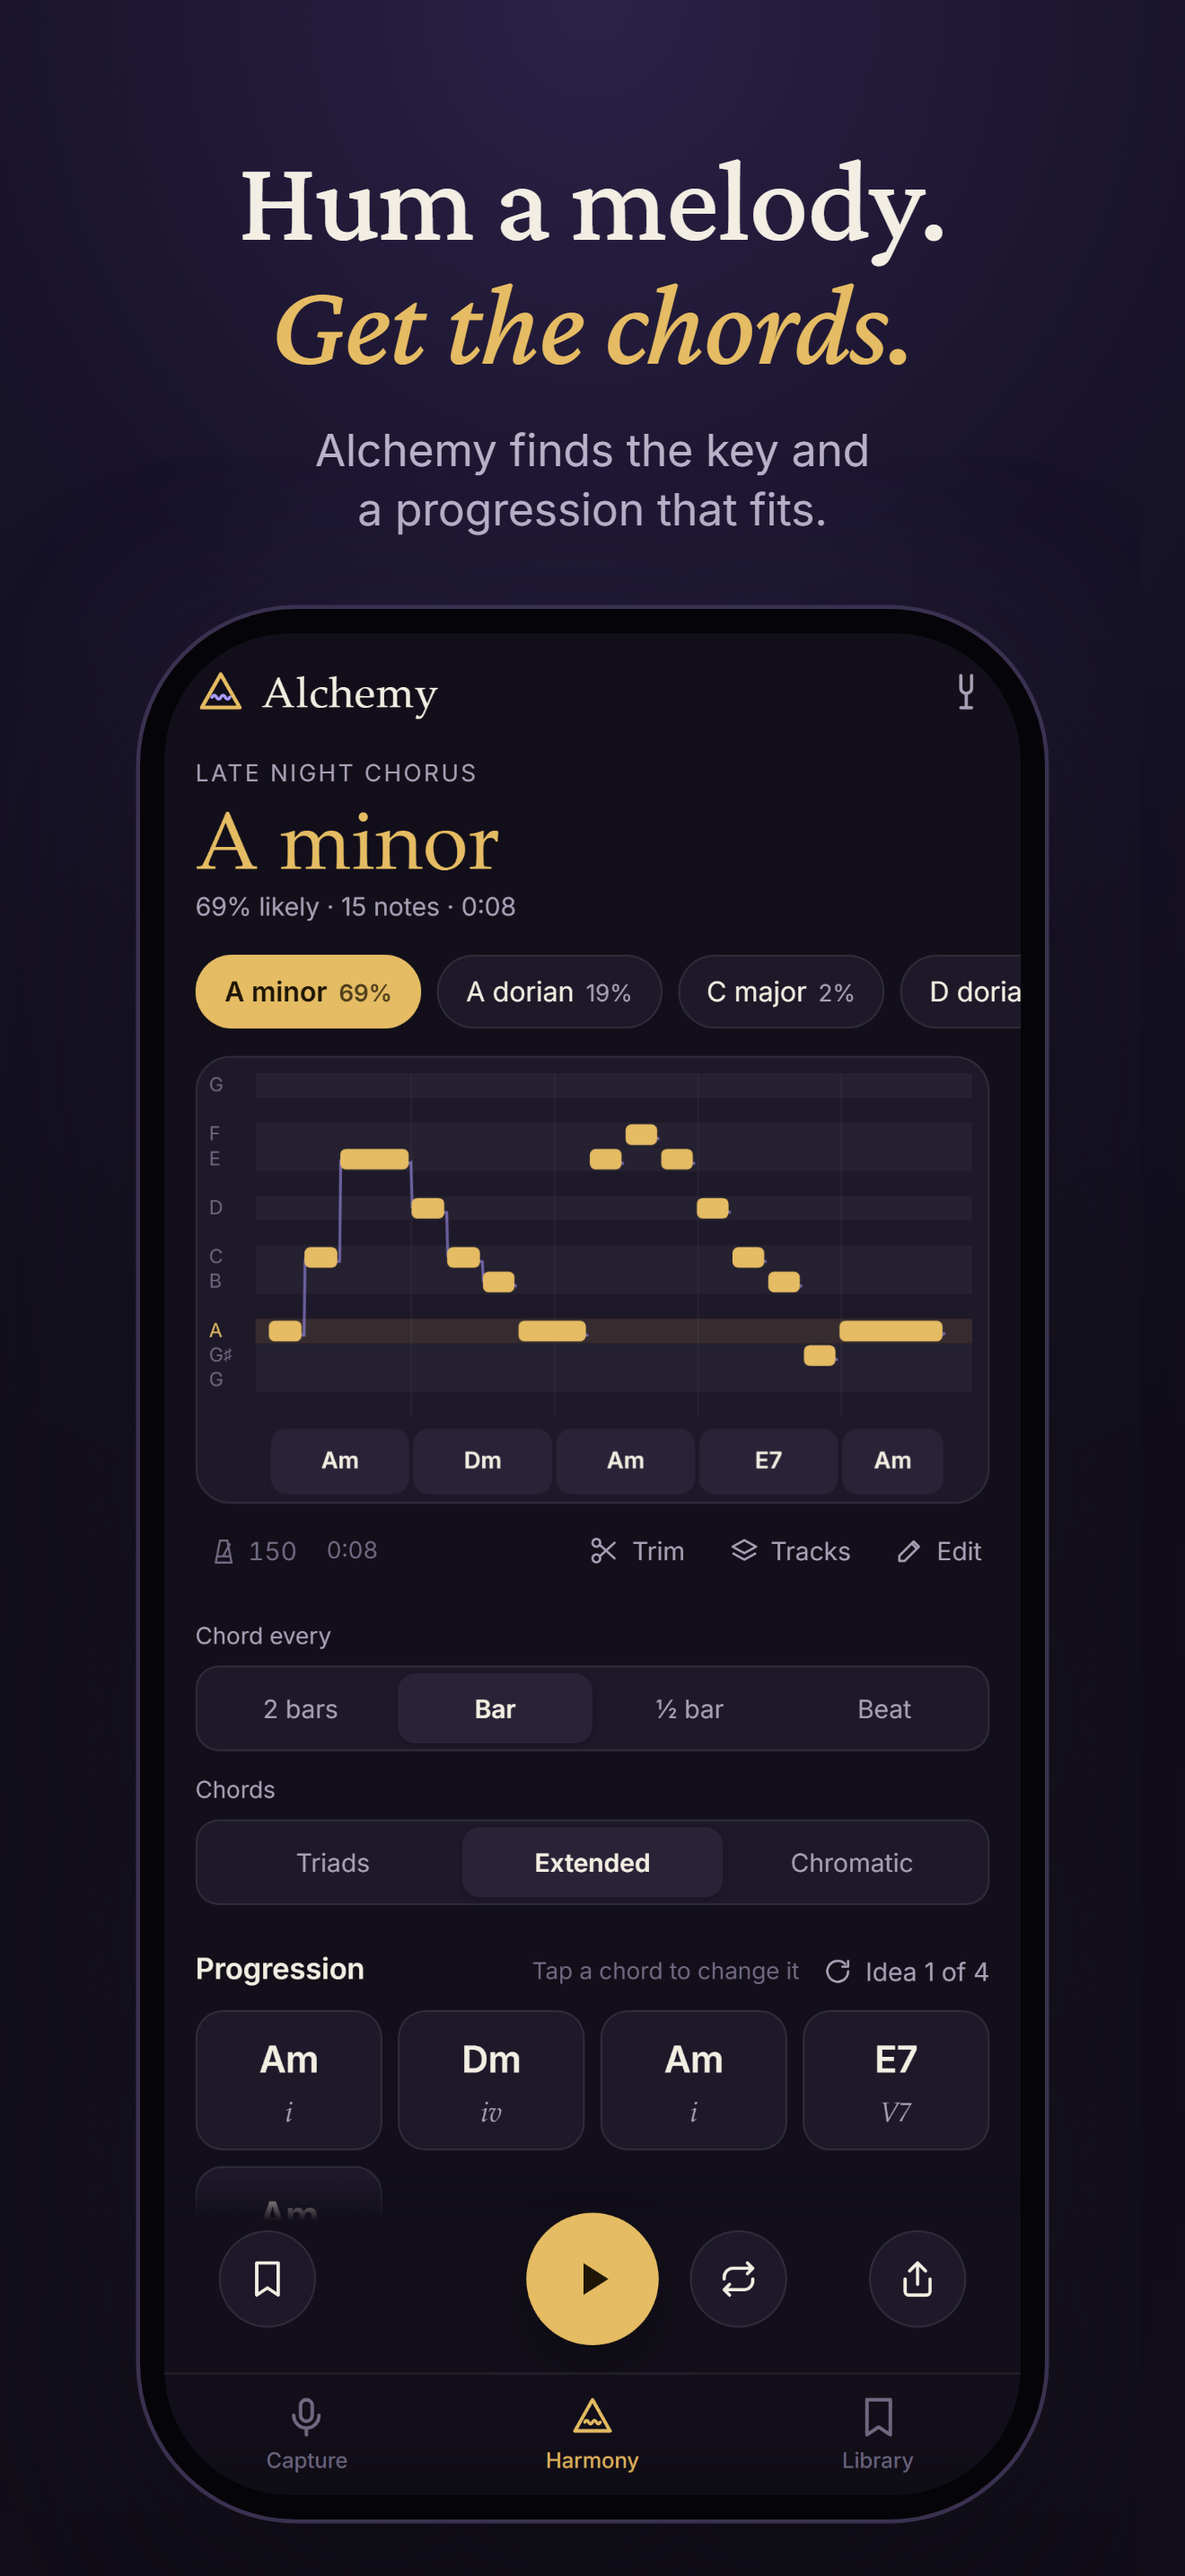
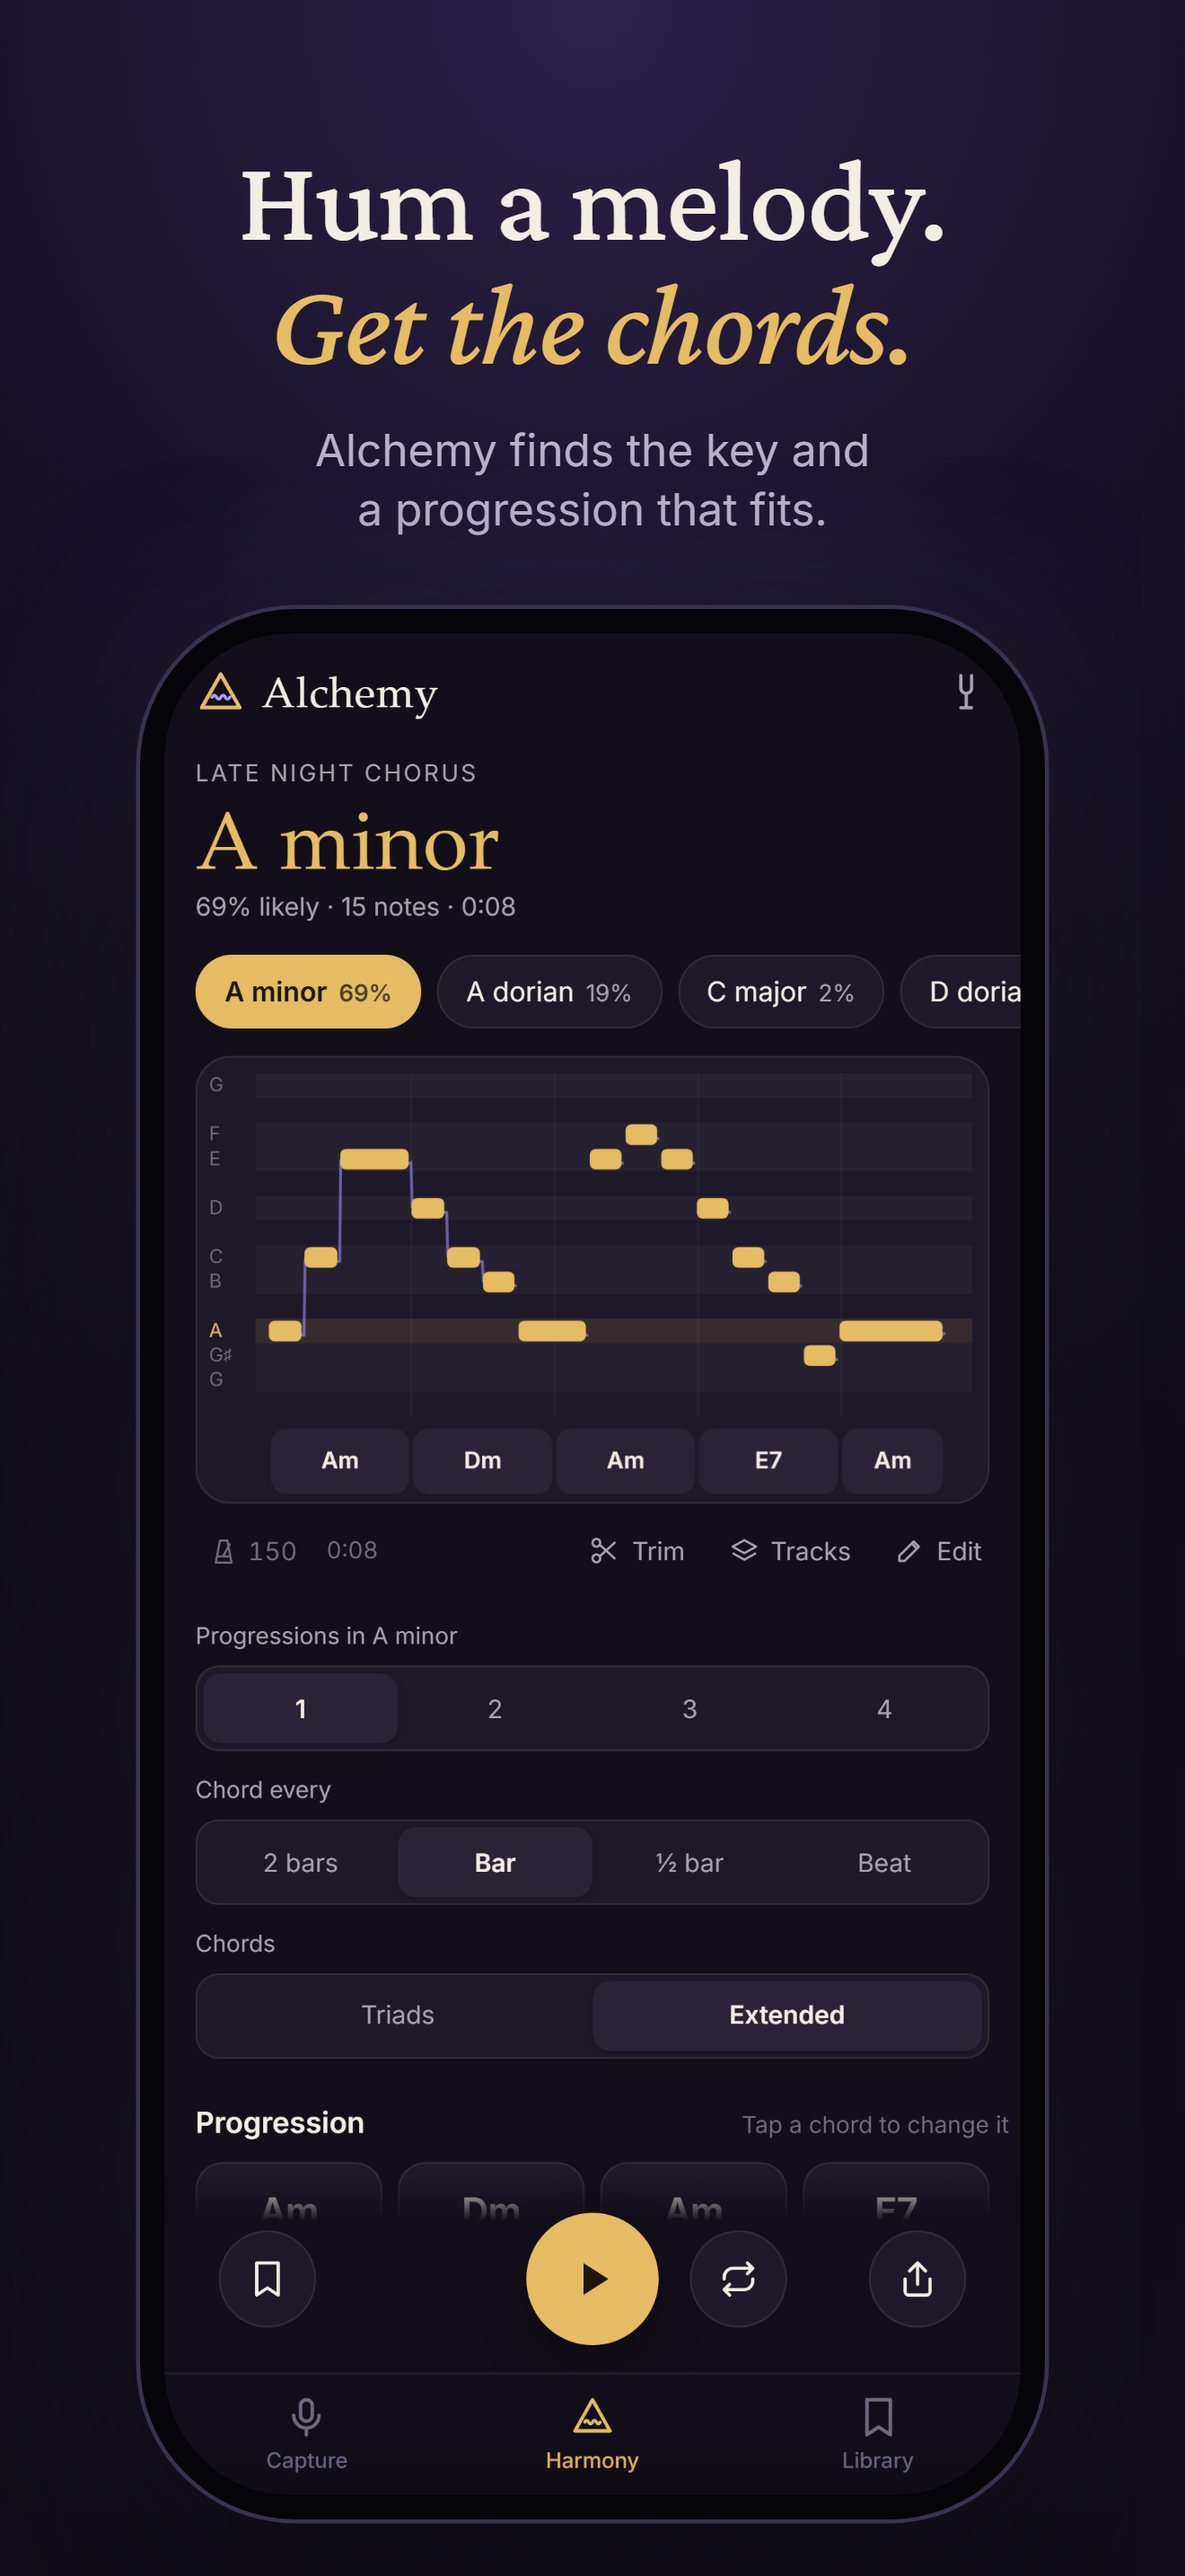
Progressions row with the other options; label the lock-screen player
- "Another idea" becomes "Progressions in <key>": numbered options at
  the top of the harmony settings, with a note when there's only one.
- Lock screen / Control Center show the take's name and key instead of
  "localhost"; its pause button stops playback.
- Going to the background pauses the audio engine, so the Now Playing
  widget doesn't linger.
- Store screenshots regenerated for the new settings layout.

diff --git a/js/app.js b/js/app.js
@@ -898,17 +898,17 @@ function settingsWithoutChoice() {
   return out;
 }
 
-// Shows the next of the suggested progressions.
-function nextIdea() {
+// Shows one of the suggested progressions: different chords for the same melody,
+// in the same key.
+function setIdea(i) {
   const ideas = state.harmony?.alternatives ?? [];
-  if (ideas.length < 2) return;
+  if (!ideas[i] || i === state.ideaIdx) return;
   stopPlayback();
-  state.ideaIdx = (state.ideaIdx + 1) % ideas.length;
-  state.harmony.segments = ideas[state.ideaIdx];
+  state.ideaIdx = i;
+  state.harmony.segments = ideas[i];
   state.overrides = {};
   markDirty();
   renderHarmony();
-  toast(`Idea ${state.ideaIdx + 1} of ${ideas.length}`, 1400);
   haptic();
 }
 
@@ -1005,9 +1005,13 @@ function renderHarmony() {
   const trimmed = take.trim.start > 0.05 || take.trim.end < take.duration - 0.05;
   $('#rollInfo').textContent = trimmed ? `${fmtTime(take.trim.start)}–${fmtTime(take.trim.end)}` : fmtTime(take.duration);
   $('#rollInfo').title = trimmed ? 'Trimmed section' : 'Recording length';
+  // The progressions on offer for this key, numbered; a note when there's only one
   const ideaCount = state.harmony.alternatives?.length ?? 0;
-  $('#ideaBtn').hidden = ideaCount < 2 || editing || trimming;
-  $('#ideaText').textContent = `Idea ${state.ideaIdx + 1} of ${ideaCount}`;
+  $('#ideaLabel').textContent = `Progressions in ${keyName(key)}`;
+  $('#ideaSeg').innerHTML = Array.from({ length: ideaCount }, (_, i) =>
+    `<button data-i="${i}" class="${i === state.ideaIdx ? 'active' : ''}" aria-label="Progression ${i + 1} of ${ideaCount}">${i + 1}</button>`).join('');
+  $('#ideaSeg').style.display = ideaCount < 2 ? 'none' : '';
+  $('#ideaControl .no-choice').hidden = ideaCount >= 2;
   const tempoBtn = $('#tempoBtn');
   tempoBtn.hidden = !take.tempo;
   if (take.tempo) {
@@ -1305,7 +1309,10 @@ $('#keyChips').addEventListener('click', (e) => {
   haptic();
 });
 
-$('#ideaBtn').addEventListener('click', nextIdea);
+$('#ideaSeg').addEventListener('click', (e) => {
+  const b = e.target.closest('button');
+  if (b) setIdea(+b.dataset.i);
+});
 
 document.querySelectorAll('.seg[data-setting]').forEach((seg) =>
   seg.addEventListener('click', (e) => {
@@ -1703,7 +1710,28 @@ function startPlayback({ countIn = false } = {}) {
   };
   $('#playBtn').classList.add('playing');
   $('#playBtn').setAttribute('aria-label', 'Stop');
+  nowPlaying(true);
   tick();
+}
+
+// What the lock screen and Control Center show while a take plays. Without it the
+// phone falls back to the app's internal address ("localhost").
+function nowPlaying(playing) {
+  const ms = navigator.mediaSession;
+  if (!ms || typeof MediaMetadata === 'undefined' || !state.take) return;
+  const key = state.keys[state.keyIdx];
+  try {
+    ms.metadata = new MediaMetadata({
+      title: state.take.name || 'Alchemy',
+      artist: key ? `Alchemy · ${keyName(key)}` : 'Alchemy',
+      artwork: [{ src: 'icons/icon-512.png', sizes: '512x512', type: 'image/png' }],
+    });
+    ms.playbackState = playing ? 'playing' : 'paused';
+  } catch { /* unsupported */ }
+}
+
+for (const [action, run] of [['play', () => startPlayback()], ['pause', () => stopPlayback()], ['stop', () => stopPlayback()]]) {
+  try { navigator.mediaSession?.setActionHandler(action, run); } catch { /* unsupported */ }
 }
 
 function tick() {
@@ -1765,6 +1793,7 @@ function stopPlayback() {
   cancelAnimationFrame(state.playing.raf);
   state.playing = null;
   synth.stop();
+  nowPlaying(false);
   $('#playBtn').classList.remove('playing');
   $('#playBtn').setAttribute('aria-label', 'Play');
   document.querySelectorAll('.chord-card.now').forEach((c) => c.classList.remove('now'));
@@ -2917,6 +2946,7 @@ document.addEventListener('visibilitychange', () => {
   if (layerRec) stopLayer();
   else stopPlayback();
   if (rec) stopRecording();
+  synth.sleep();
 });
 
 setAudioSession('playback');

diff --git a/index.html b/index.html
@@ -142,6 +142,11 @@
           </div>
 
           <div class="controls">
+            <div class="control wide" id="ideaControl">
+              <span class="label" id="ideaLabel">Progressions</span>
+              <div class="seg" id="ideaSeg" aria-label="Other chord progressions for this melody in the same key"></div>
+              <p class="no-choice" hidden>No other progressions in this key</p>
+            </div>
             <div class="control">
               <span class="label">Chord every</span>
               <div class="seg" data-setting="rhythm" aria-label="How often the chord can change">
@@ -162,10 +167,6 @@
             <h2>Progression</h2>
             <div class="head-right">
               <span class="hint">Tap a chord to change it</span>
-              <button class="text-btn" id="ideaBtn" hidden title="Try another progression for the same melody">
-                <svg viewBox="0 0 24 24"><path d="M20 12a8 8 0 1 1-2.3-5.6M20 4v4.5h-4.5" fill="none" stroke="currentColor" stroke-width="1.8" stroke-linecap="round" stroke-linejoin="round"/></svg>
-                <span id="ideaText">Another idea</span>
-              </button>
             </div>
           </div>
           <div class="chords" id="chordList"></div>

diff --git a/css/styles.css b/css/styles.css
@@ -387,6 +387,7 @@ main { flex: 1; position: relative; overflow: hidden; }
 
 .controls { display: grid; grid-template-columns: 1fr 1fr; gap: 12px; margin-top: 16px; }
 @media (max-width: 459px) { .controls { grid-template-columns: 1fr; } }
+.control.wide { grid-column: 1 / -1; }
 .label { display: block; font-size: 12px; color: var(--muted); margin-bottom: 6px; }
 .seg { display: flex; padding: 3px; border-radius: 12px; background: var(--surface); border: 1px solid var(--line); }
 .seg button { flex: 1; min-height: 36px; padding: 0 4px; border-radius: 9px; font-size: 13px; color: var(--muted); white-space: nowrap; transition: background 0.15s, color 0.15s; }

diff --git a/js/synth.js b/js/synth.js
@@ -34,6 +34,12 @@ export class Synth {
     return this.ctx;
   }
 
+  // The app went to the background: pause the audio engine, so the phone stops
+  // listing Alchemy as "Now Playing" on the lock screen. ensure() wakes it again.
+  sleep() {
+    if (this.ctx?.state === 'running') this.ctx.suspend().catch(() => {});
+  }
+
   // Opening or closing the mic switches a phone's audio route (call mode, Bluetooth
   // headset profiles, sample rate). A context that lives through the switch can stay
   // quiet or distorted, so the next ensure() builds a new one. Until then the old
